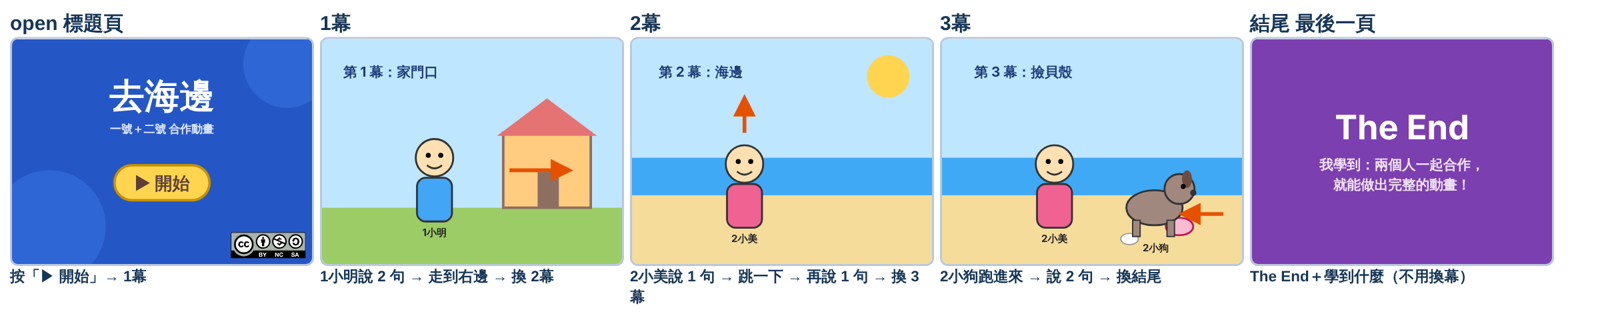
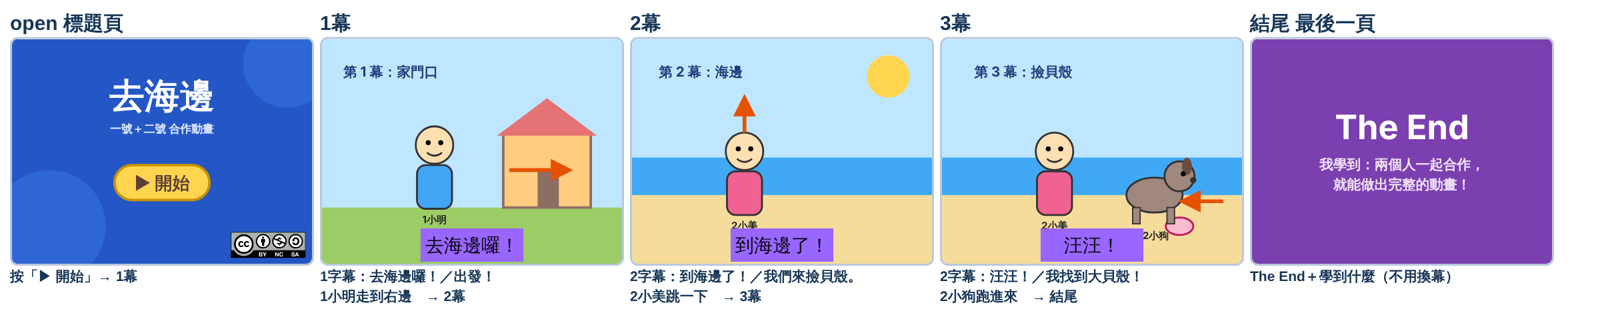
Animation example v1.3: dialogue uses the teacher's custom block from 對話.sb3
- 1字幕／2字幕 carry the exact custom block 顯示 (字幕) 說出 (配音) 等待 (秒數); captions in the teacher's purple style
- each scene: caption sprite says 2 lines then changes scene; actor does 1 action (walk / jump / run in)
- placeholder 1.3 s ding sounds named like captions (students record over them)
- verified on scratch-vm with real sound durations; merge guide v1.5 rules, table, scripts, storyboard; tests

Claude-Session: https://claude.ai/code/session_01BkojhN9MawaNgsgZxLkVjJ

diff --git a/tutorial-merge.html b/tutorial-merge.html
@@ -1,5 +1,5 @@
 <!doctype html>
-<!-- tutorial-merge.html v1.4（2026-10-16）：兩人合在一起（新手版）＋範本下載＋動畫換幕 -->
+<!-- tutorial-merge.html v1.5（2026-10-16）：兩人合在一起（新手版）＋範本下載＋動畫換幕 -->
 <html lang="zh-Hant">
 <head>
 <meta charset="utf-8"><meta name="viewport" content="width=device-width,initial-scale=1">
@@ -56,7 +56,7 @@ pre.blocks{white-space:pre-wrap;margin:6px 0 0}
 .check input{width:22px;height:22px;flex-shrink:0;margin-top:5px}
 .tabs{display:flex;gap:8px;flex-wrap:wrap;margin:0 0 12px}
 .tabs a{border-radius:999px;padding:6px 14px;background:#e9f0ff;color:#1946a2;font-weight:800;text-decoration:none}
-.example{margin:16px 0;border:2px solid #f0c64a;background:#fffaf0;border-radius:16px;padding:14px}.story-scroll{overflow-x:auto;max-width:100%}.story-hint{display:none}.storyboard{width:100%;height:auto;border-radius:10px;border:1px solid var(--line);background:#fff}.example .dl{grid-template-columns:minmax(0,320px)}.ex-grid{display:grid;grid-template-columns:repeat(auto-fit,minmax(270px,1fr));gap:10px}.ex-sprite{background:#fff;border:2px solid var(--line);border-radius:12px;padding:8px 10px;min-width:0;overflow-x:auto}.ex-sprite.one{border-color:var(--one)}.ex-sprite.two{border-color:var(--two)}.ex-sprite h4{margin:0 0 4px;font-size:1.05rem}.ex-sprite.one h4{color:var(--one)}.ex-sprite.two h4{color:var(--two)}.ex-sprite pre.blocks{margin:0}
+.example{margin:16px 0;border:2px solid #f0c64a;background:#fffaf0;border-radius:16px;padding:14px}.story-scroll{overflow-x:auto;max-width:100%}.story-hint{display:none}.storyboard{width:100%;height:auto;border-radius:10px;border:1px solid var(--line);background:#fff}.example .dl{grid-template-columns:minmax(0,320px)}.ex-grid{display:grid;grid-template-columns:repeat(auto-fit,minmax(270px,1fr));gap:10px}.ex-sprite{background:#fff;border:2px solid var(--line);border-radius:12px;padding:8px 10px;min-width:0;overflow-x:auto}.ex-sprite.one{border-color:var(--one)}.ex-sprite.two{border-color:var(--two)}.ex-sprite h4{margin:0 0 4px;font-size:1.05rem}.ex-sprite.one h4{color:var(--one)}.ex-sprite.two h4{color:var(--two)}.ex-sprite pre.blocks{margin:0}.cap-list{margin:0 0 4px;font-size:.85rem;color:#55708f}
 .print-btn{border:0;border-radius:11px;background:#2458ca;color:#fff;font:700 1rem inherit;padding:10px 16px;cursor:pointer}
 @media(max-width:720px){.overview{grid-template-columns:1fr}.ov{display:grid;grid-template-columns:40px minmax(0,1fr);column-gap:8px;align-items:center;text-align:left}.ov b{font-size:1.5rem;grid-row:span 2}.ov>span{grid-column:2}.steps>li{grid-template-columns:1fr}.dl{grid-template-columns:1fr}.storyboard{width:900px;max-width:none}.story-hint{display:block}}
 @page{size:A4;margin:9mm}@media print{header,.tabs,.print-btn,.dl,.overview{display:none}body{background:#fff;font-size:10.5pt;line-height:1.45}main{padding:0;max-width:none}.card{padding:10px 12px;margin:0 0 8px;border-color:#999}.stop{padding:8px 10px;margin:0 0 8px;font-size:11pt}h1{font-size:18pt;margin:0}h2{font-size:13pt;margin:0 0 6px}.steps{gap:6px}.steps>li{grid-template-columns:minmax(0,1fr) 190px;padding:6px 8px;gap:8px;break-inside:avoid}.steps p{margin:2px 0 0}.say{font-size:11pt}.steps>li>div:first-child::before{width:24px;height:24px}.blocks-row{grid-template-columns:repeat(3,minmax(0,1fr));gap:6px}.blocks-row>div{padding:6px;break-inside:avoid}.blocks-row svg{max-width:100%;height:auto}#anim table{font-size:9.5pt}th,td{padding:3px 5px}.check label{font-size:10pt}}
@@ -133,32 +133,30 @@ pre.blocks{white-space:pre-wrap;margin:6px 0 0}
 </section>
 
 <section class="card" id="anim">
-  <h2>🎬 動畫組：怎麼換到下一幕</h2>
-  <p class="say">最後講話的人，講完就換下一幕。</p>
-  <p class="say">每一幕：至少兩句對話＋一個動作（走、跳、跑進來…）。</p>
-  <p>這個角色叫這一幕的「<b>換幕的人</b>」。<span class="warn">每一幕只能有一個。</span></p>
+  <h2>🎬 動畫組：怎麼說話、怎麼換幕</h2>
+  <p class="say">每一幕：字幕角色講 2 句＋演員做 1 個動作。</p>
+  <p class="say">字幕角色講完，就換下一幕。<span class="warn">每一幕只能有一個換幕的。</span></p>
+  <p>說話用 <a href="tutorial-feature.html?item=A04&amp;v=4">A11 的自訂積木</a>「顯示 (字幕) 說出 (配音) 等待 (秒數)」。一號用「<b>1字幕</b>」、二號用「<b>2字幕</b>」。造型和音效一句一個，名字一樣：1、2、3…</p>
   <div class="blocks-row">
     <div><small>① 每個角色都要有：一開始先躲起來</small><pre class="blocks">當 @greenFlag 被點擊
 隱藏</pre></div>
-    <div><small>② 換幕的人（1幕）：講完最後一句就換</small><pre class="blocks">當背景換成 [1幕 v]
-顯示
-說出 [去海邊囉！] 持續 (2) 秒
-說出 [出發！] 持續 (2) 秒
+    <div><small>② 字幕角色（1字幕）：講 2 句，再換幕</small><pre class="blocks">當背景換成 [1幕 v]
+顯示 [1] 說出 [1] 等待 [0.5] :: custom
+顯示 [2] 說出 [2] 等待 [0.5] :: custom
 背景換成 [2幕 v]</pre></div>
-    <div><small>動作的例子：走路、跳一下</small><pre class="blocks">定位到 x:(-150) y:(-60)
-滑行 (2) 秒到 x:(170) y:(-60)
-
-y 改變 (40)
-等待 (0.3) 秒
-y 改變 (-40)</pre></div>
-    <div><small>③ 其他角色：我出場的幕 → 顯示</small><pre class="blocks">當背景換成 [2幕 v]
+    <div><small>③ 演員（1小明）：出場＋動作</small><pre class="blocks">當背景換成 [1幕 v]
+定位到 x:(-150) y:(-40)
 顯示
-說出 [好多貝殼！] 持續 (2) 秒</pre></div>
-    <div><small>④ 每個角色：我出場後的下一幕 → 隱藏</small><pre class="blocks">當背景換成 [3幕 v]
+滑行 (3) 秒到 x:(170) y:(-40)</pre></div>
+    <div><small>④ 每個角色：我出場後的下一幕 → 隱藏</small><pre class="blocks">當背景換成 [2幕 v]
 隱藏</pre></div>
     <div><small>⑤ 標題頁的開始鈕：按了就換到 1幕</small><pre class="blocks">當角色被點擊
 背景換成 [1幕 v]</pre></div>
+    <div><small>動作的例子：跳一下</small><pre class="blocks">y 改變 (40)
+等待 (0.3) 秒
+y 改變 (-40)</pre></div>
   </div>
+  <p class="note">字幕會等配音播完、再等 0.5 秒才換下一句，所以配音長，演員就有時間做完動作。</p>
   <p class="warn" style="margin-top:10px">❌ 不要用「背景換成下一個」。要選名字：背景換成 [2幕]。</p>
   <h3 style="margin-top:14px">先畫這張表：誰在哪一幕出場？</h3>
   <div class="scroll"><table><thead><tr><th>角色</th><th>open<br>標題頁</th><th>1幕</th><th>2幕</th><th>3幕</th><th>結尾<br>最後一頁</th></tr></thead>
@@ -166,16 +164,17 @@ y 改變 (-40)</pre></div>
     <tr><th>1標題</th><td class="on">顯示</td><td class="off">隱藏</td><td class="off">隱藏</td><td class="off">隱藏</td><td class="off">隱藏</td></tr>
     <tr><th>1開始鈕</th><td class="on">顯示・按了換幕</td><td class="off">隱藏</td><td class="off">隱藏</td><td class="off">隱藏</td><td class="off">隱藏</td></tr>
     <tr><th>1CC</th><td class="on">顯示</td><td class="off">隱藏</td><td class="off">隱藏</td><td class="off">隱藏</td><td class="off">隱藏</td></tr>
-    <tr><th>1小明</th><td class="off">隱藏</td><td class="on">顯示・換幕</td><td class="off">隱藏</td><td class="off">隱藏</td><td class="off">隱藏</td></tr>
-    <tr><th>2小美</th><td class="off">隱藏</td><td class="off">隱藏</td><td class="on">顯示・換幕</td><td class="on">顯示</td><td class="off">隱藏</td></tr>
-    <tr><th>2小狗</th><td class="off">隱藏</td><td class="off">隱藏</td><td class="off">隱藏</td><td class="on">顯示・換幕</td><td class="off">隱藏</td></tr>
+    <tr><th>1小明</th><td class="off">隱藏</td><td class="on">顯示＋走路</td><td class="off">隱藏</td><td class="off">隱藏</td><td class="off">隱藏</td></tr>
+    <tr><th>1字幕</th><td class="off">隱藏</td><td class="on">說 2 句・換幕</td><td class="off">隱藏</td><td class="off">隱藏</td><td class="off">隱藏</td></tr>
+    <tr><th>2小美</th><td class="off">隱藏</td><td class="off">隱藏</td><td class="on">顯示＋跳一下</td><td class="on">顯示</td><td class="off">隱藏</td></tr>
+    <tr><th>2小狗</th><td class="off">隱藏</td><td class="off">隱藏</td><td class="off">隱藏</td><td class="on">顯示＋跑進來</td><td class="off">隱藏</td></tr>
+    <tr><th>2字幕</th><td class="off">隱藏</td><td class="off">隱藏</td><td class="on">說 2 句・換幕</td><td class="on">說 2 句・換幕</td><td class="off">隱藏</td></tr>
     <tr><th>2結尾字</th><td class="off">隱藏</td><td class="off">隱藏</td><td class="off">隱藏</td><td class="off">隱藏</td><td class="on">顯示</td></tr>
   </tbody></table></div>
-  <p class="note">每個綠色格子：寫「當背景換成 [這一幕] → 顯示」。<br>綠色後面的第一個灰色格子：寫「當背景換成 [那一幕] → 隱藏」。<br>每一欄只能有一個「換幕」。標題頁是按「開始」換幕；結尾是最後一頁，不用換幕。</p>
-
-  <div class="example" id="anim-example">
+  <p class="note">每個綠色格子：寫「當背景換成 [這一幕] → 顯示」（字幕角色的自訂積木會自己顯示、隱藏）。<br>綠色後面的第一個灰色格子：寫「當背景換成 [那一幕] → 隱藏」。<br>每一欄只能有一個「換幕」。標題頁是按「開始」換幕；結尾是最後一頁，不用換幕。</p>
+<div class="example" id="anim-example">
     <h3>📽 完整例子：「去海邊」</h3>
-    <p class="say">按綠旗 → 標題頁 → 按「開始」→ 1幕 → 2幕 → 3幕 → 結尾。</p><p class="note">標題頁：作品名稱＋開始鈕＋CC 授權圖示。每一幕：兩句對話＋一個動作（1幕走路、2幕跳一下、3幕小狗跑進來）。最後一頁：The End＋一句學到什麼。</p>
+    <p class="say">按綠旗 → 標題頁 → 按「開始」→ 1幕 → 2幕 → 3幕 → 結尾。</p><p class="note">標題頁：作品名稱＋開始鈕＋CC 授權圖示。每一幕：字幕角色講兩句（A11 自訂積木）＋演員一個動作（1幕走路、2幕跳一下、3幕小狗跑進來）。最後一頁：The End＋一句學到什麼。</p><p class="note">範例的配音是「叮」一聲的示範音效；請在字幕角色的「音效」裡錄音取代，名字不要改。</p>
     <div class="story-scroll"><img class="storyboard" src="assets/templates/anim/example-storyboard.png" alt="去海邊五個畫面：open 標題頁有作品名稱、開始鈕和 CC 圖示；1幕 1小明說兩句後走到右邊；2幕 2小美說話並跳一下；3幕 2小狗跑進來撿貝殼；結尾 The End">
     <div class="dl"><a class="one" href="assets/templates/anim/example.sb3" download="動畫範例_去海邊.sb3" data-template="animExample">⬇ 下載完整例子<small>用 Scratch 打開，按綠旗看看</small></a></div>
     <p>每個角色的全部程式（就是上面那張表）：</p>
@@ -213,27 +212,28 @@ y 改變 (-40)</pre></div>
 隱藏
 
 當背景換成 [1幕 v]
-定位到 x:(-150) y:(-60)
+定位到 x:(-150) y:(-40)
 顯示
-說出 [去海邊囉！] 持續 (2) 秒
-說出 [出發！] 持續 (2) 秒
-滑行 (2) 秒到 x:(170) y:(-60)
-背景換成 [2幕 v]
+滑行 (3) 秒到 x:(170) y:(-40)
 
 當背景換成 [2幕 v]
 隱藏</pre></div>
+<div class="ex-sprite one"><h4>1字幕</h4><p class="cap-list">造型／音效：1＝去海邊囉！　2＝出發！<br>＋A11 自訂積木（和對話.sb3 一樣）</p><pre class="blocks">當 @greenFlag 被點擊
+隱藏
+
+當背景換成 [1幕 v]
+顯示 [1] 說出 [1] 等待 [0.5] :: custom
+顯示 [2] 說出 [2] 等待 [0.5] :: custom
+背景換成 [2幕 v]</pre></div>
 <div class="ex-sprite two"><h4>2小美</h4><pre class="blocks">當 @greenFlag 被點擊
 隱藏
 
 當背景換成 [2幕 v]
-定位到 x:(-60) y:(-70)
+定位到 x:(-60) y:(-50)
 顯示
-說出 [到海邊了！] 持續 (2) 秒
 y 改變 (40)
 等待 (0.3) 秒
 y 改變 (-40)
-說出 [我們來撿貝殼。] 持續 (2) 秒
-背景換成 [3幕 v]
 
 當背景換成 [3幕 v]
 顯示
@@ -244,15 +244,24 @@ y 改變 (-40)
 隱藏
 
 當背景換成 [3幕 v]
-定位到 x:(230) y:(-90)
+定位到 x:(230) y:(-70)
 顯示
-滑行 (1.5) 秒到 x:(110) y:(-90)
-說出 [汪汪！] 持續 (2) 秒
-說出 [我找到大貝殼！] 持續 (2) 秒
-背景換成 [結尾 v]
+滑行 (1.5) 秒到 x:(110) y:(-70)
 
 當背景換成 [結尾 v]
 隱藏</pre></div>
+<div class="ex-sprite two"><h4>2字幕</h4><p class="cap-list">造型／音效：1＝到海邊了！　2＝我們來撿貝殼。　3＝汪汪！　4＝我找到大貝殼！<br>＋A11 自訂積木（和對話.sb3 一樣）</p><pre class="blocks">當 @greenFlag 被點擊
+隱藏
+
+當背景換成 [2幕 v]
+顯示 [1] 說出 [1] 等待 [0.5] :: custom
+顯示 [2] 說出 [2] 等待 [0.5] :: custom
+背景換成 [3幕 v]
+
+當背景換成 [3幕 v]
+顯示 [3] 說出 [3] 等待 [0.5] :: custom
+顯示 [4] 說出 [4] 等待 [0.5] :: custom
+背景換成 [結尾 v]</pre></div>
 <div class="ex-sprite two"><h4>2結尾字</h4><pre class="blocks">當 @greenFlag 被點擊
 隱藏
 

diff --git a/tutorial-collaboration.html b/tutorial-collaboration.html
@@ -3,4 +3,4 @@
 .player-columns{display:grid;grid-template-columns:1fr 1fr;gap:20px}.player-check{border-radius:18px;padding:22px;min-width:0}.player-check h2{margin-top:0}.player-items label{display:flex;align-items:flex-start;gap:12px;padding:13px 0;border-bottom:1px solid #cbd8e6}.player-items input{width:23px;height:23px;flex-shrink:0;margin-top:4px;accent-color:#245bb7}.player-items label:has(input:checked){color:#54755d}.single-checks{margin-top:24px}@media(max-width:700px){.player-columns{grid-template-columns:1fr}.player-check{padding:16px}}
 main{overflow:hidden}.blocks-wrap,.scroll{max-width:100%}
 *{box-sizing:border-box}body{margin:0;background:#f2f6fd;color:#163657;font:18px/1.65 "Microsoft JhengHei",system-ui,sans-serif}header{background:#244fbd;padding:15px;color:white}header a{color:white}main{max-width:1080px;margin:auto;padding:20px 14px 60px}h1{font-size:clamp(1.8rem,4vw,2.7rem);line-height:1.3}h2{font-size:1.5rem}h3{margin-top:0}.card{background:white;border:1px solid #d4e0ef;border-radius:18px;padding:22px;margin:16px 0}.grid{display:grid;grid-template-columns:repeat(2,minmax(0,1fr));gap:15px}.one{border-top:6px solid #2875c7}.two{border-top:6px solid #9d52c8}.tile{padding:18px;border-radius:14px;background:#f4f8ff;min-width:0}.key{background:#fff0bc;border-left:6px solid #e6a51a;padding:13px;border-radius:10px}.danger{background:#ffebe8;border-color:#e35d4f}nav{display:flex;flex-wrap:wrap;gap:9px}nav a{background:#edf3ff;color:#1d53a2;padding:9px 12px;border-radius:10px;text-decoration:none;font-weight:bold}svg.diagram{width:100%;height:auto;display:block;max-width:800px;margin:auto}.scroll{overflow-x:auto}table{width:100%;border-collapse:collapse;min-width:650px}td,th{text-align:left;vertical-align:top;padding:10px;border-bottom:1px solid #d5e2f0}th{background:#edf4ff}code{font-family:Consolas,monospace;color:#194c9b;background:#eaf1ff;padding:2px 4px;overflow-wrap:anywhere}details{border:1px solid #ccdbed;padding:12px;border-radius:10px;margin:12px 0}summary{cursor:pointer;color:#2059a3;font-weight:bold}.blocks-wrap{overflow-x:auto;background:#f4f8ff;padding:15px;border-radius:12px}.scratchblocks{min-width:max-content}.check label{display:block;padding:10px;border:1px solid #cde0d4;border-radius:9px;margin:8px 0}.check input{width:20px;height:20px;margin-right:10px}.caption{color:#596e86;font-size:.95rem}button{font:inherit;padding:9px 15px;border:0;border-radius:10px;background:#245bb7;color:white;cursor:pointer}@media(max-width:650px){.grid{grid-template-columns:1fr}.card{padding:15px}body{font-size:17px}}
-</style><link rel="stylesheet" href="tutorial-coop-visual.css?v=1"></head><body><header><a href="index.html">← 回必做功能</a>　兩人合作圖解 v5　｜　<a href="tutorial-merge.html?v=1.4">⭐ 新手版：下載範本＋合在一起</a></header><main id="team-guide"></main><script src="assets/vendor/scratchblocks/scratchblocks.min.js"></script><script src="assets/vendor/scratchblocks/translations-all.js"></script><script src="scratch-render.js?v=1"></script><script src="tutorial-team-roles.js?v=6"></script><script src="tutorial-coop-visual.js?v=7"></script><script src="tutorial-checklist-table.js?v=1"></script></body></html>
+</style><link rel="stylesheet" href="tutorial-coop-visual.css?v=1"></head><body><header><a href="index.html">← 回必做功能</a>　兩人合作圖解 v5　｜　<a href="tutorial-merge.html?v=1.5">⭐ 新手版：下載範本＋合在一起</a></header><main id="team-guide"></main><script src="assets/vendor/scratchblocks/scratchblocks.min.js"></script><script src="assets/vendor/scratchblocks/translations-all.js"></script><script src="scratch-render.js?v=1"></script><script src="tutorial-team-roles.js?v=6"></script><script src="tutorial-coop-visual.js?v=7"></script><script src="tutorial-checklist-table.js?v=1"></script></body></html>

diff --git a/index.html b/index.html
@@ -412,7 +412,7 @@ const DEVICE_FEATURES={
   cc:{name:'CC 授權標示',cond:'在標題首頁放上 CC BY-NC-SA 圖示，大小清楚可辨識，不遮住作品名稱或開始按鈕。',pri:1,links:[{title:'下載 CC BY-NC-SA 圖示（SVG）',url:'assets/cc-by-nc-sa.svg'}]}
 };
 const TEAM_COLLAB_FEATURE={name:'兩人合作：統一廣播命名並合併單一作品',cond:'兩人先確認共用廣播名稱與分工；各自完成負責部分，匯入同一個主作品 .sb3；兩人從標題到結尾完整測試並備份。',pri:1,
-  links:[{title:'⭐ 新手版：下載範本＋兩人合在一起＋動畫換幕',url:'tutorial-merge.html?v=1.4'},{title:'兩人合作與合併作品圖解教學',url:'tutorial-collaboration.html?v=5.7'}]};
+  links:[{title:'⭐ 新手版：下載範本＋兩人合在一起＋動畫換幕',url:'tutorial-merge.html?v=1.5'},{title:'兩人合作與合併作品圖解教學',url:'tutorial-collaboration.html?v=5.7'}]};
 const FEATURE_ADJUSTMENTS={
   anim:{
     removed:new Set(['A07','A11']),
